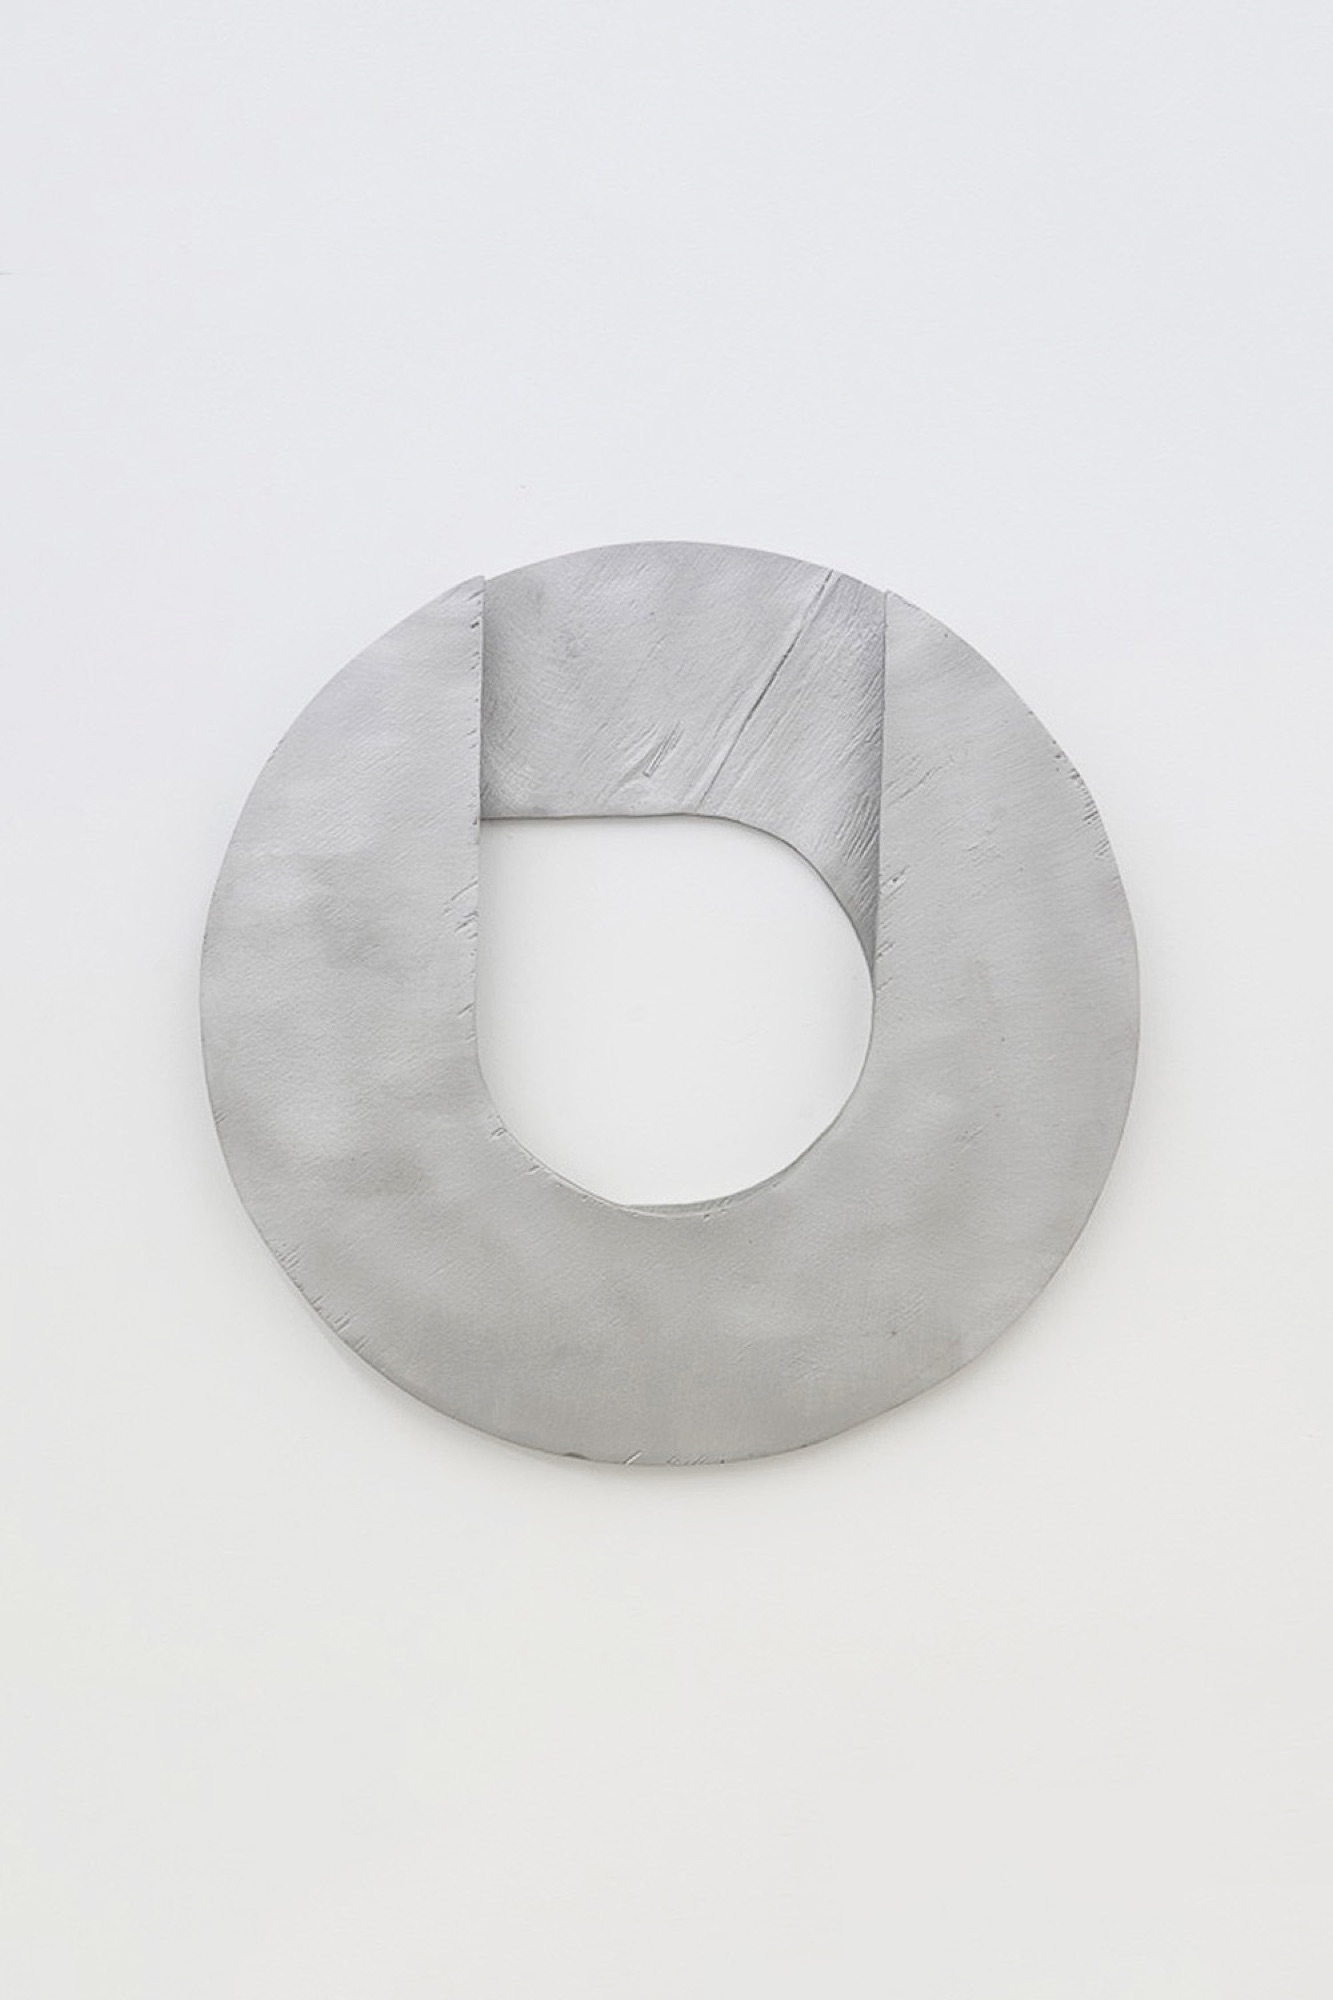
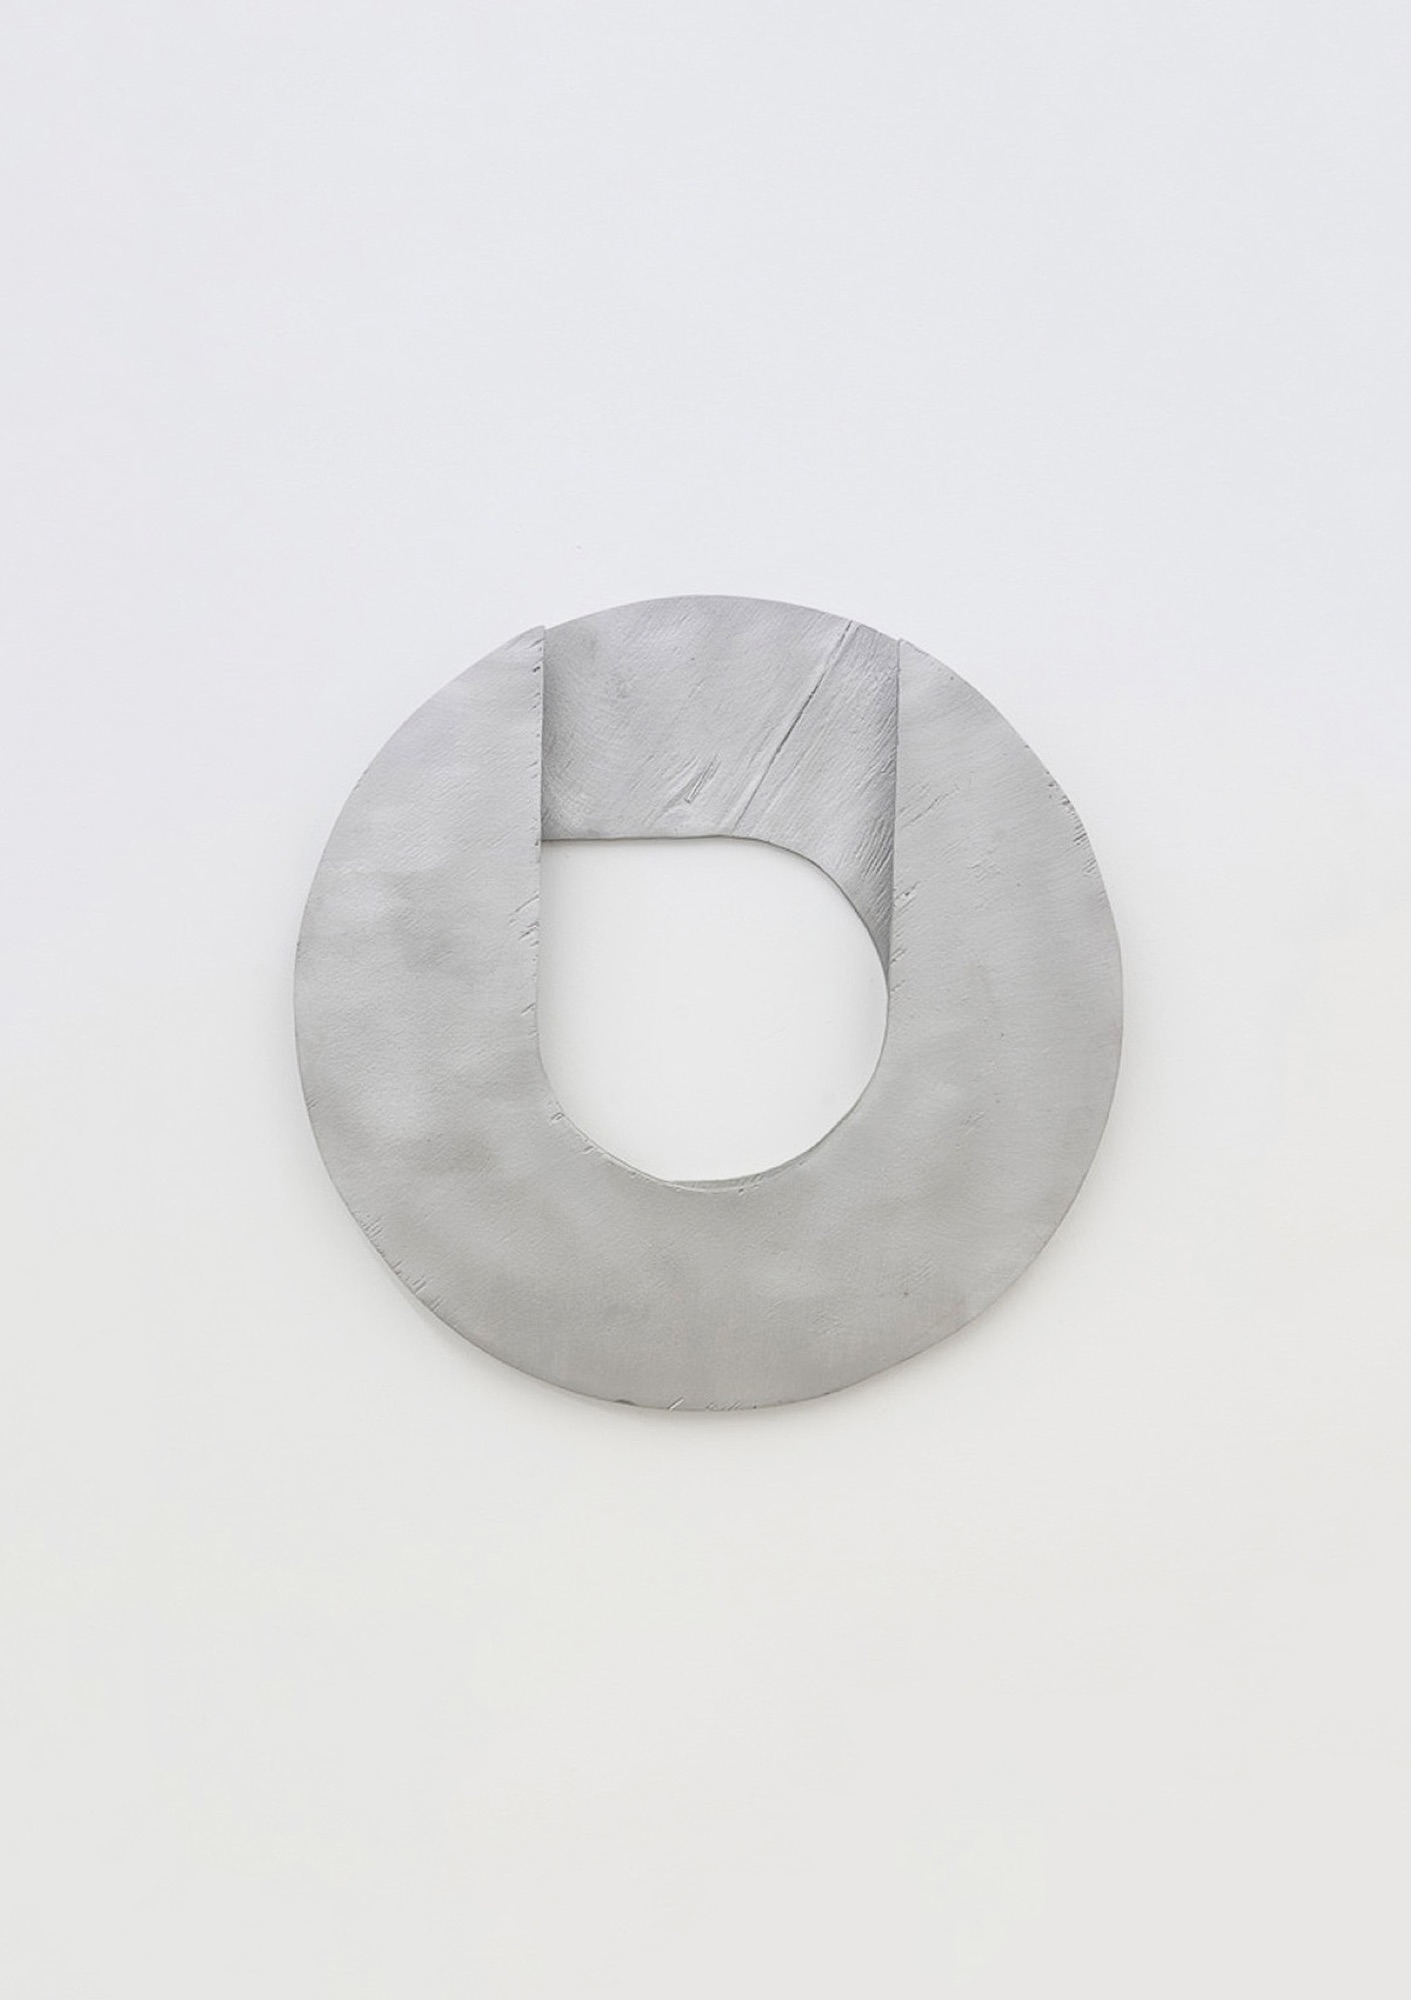
Regenerate thumbnails for updated 230-06r and 230-09r; bump cache-bust versions
Both now 1200x1700 (was 1000x1025 and 1000x1087 respectively).

Changed region(s): [[0.123, 0.248, 0.8612, 0.744], [0.3691, 0.465, 0.5536, 0.62], [0.5536, 0.341, 0.5844, 0.372]]

diff --git a/index.html b/index.html
@@ -1200,8 +1200,8 @@
 <!-- cms-item-start -->
             <!-- primary page identifier: data-page -->
             <!-- Tall Size -->
-            <a class="tall" onclick="showArtworkPage(this, 'image')" data-file="230-06r_edit.jpg" data-page="108">
-                <img src="thumbs/230-06r_edit.jpg" alt="Steppe | 2013 | uv print on cast aluminium | 30 x 30 cm" loading="lazy">
+            <a class="tall" onclick="showArtworkPage(this, 'image')" data-file="230-06r_edit.jpg?v=2" data-page="108">
+                <img src="thumbs/230-06r_edit.jpg?v=2" alt="Steppe | 2013 | uv print on cast aluminium | 30 x 30 cm" loading="lazy">
             </a>
             <!-- cms-item-end -->
 
@@ -1224,8 +1224,8 @@
 <!-- cms-item-start -->
             <!-- primary page identifier: data-page -->
             <!-- Tall Size -->
-            <a class="tall" onclick="showArtworkPage(this, 'image')" data-file="230-09r_edit.jpg?v=2" data-page="111">
-                <img src="thumbs/230-09r_edit.jpg?v=2" alt="Blank | 2013 | uv print on cast aluminium | 30 x 30 cm" loading="lazy">
+            <a class="tall" onclick="showArtworkPage(this, 'image')" data-file="230-09r_edit.jpg?v=3" data-page="111">
+                <img src="thumbs/230-09r_edit.jpg?v=3" alt="Blank | 2013 | uv print on cast aluminium | 30 x 30 cm" loading="lazy">
             </a>
             <!-- cms-item-end -->
 
